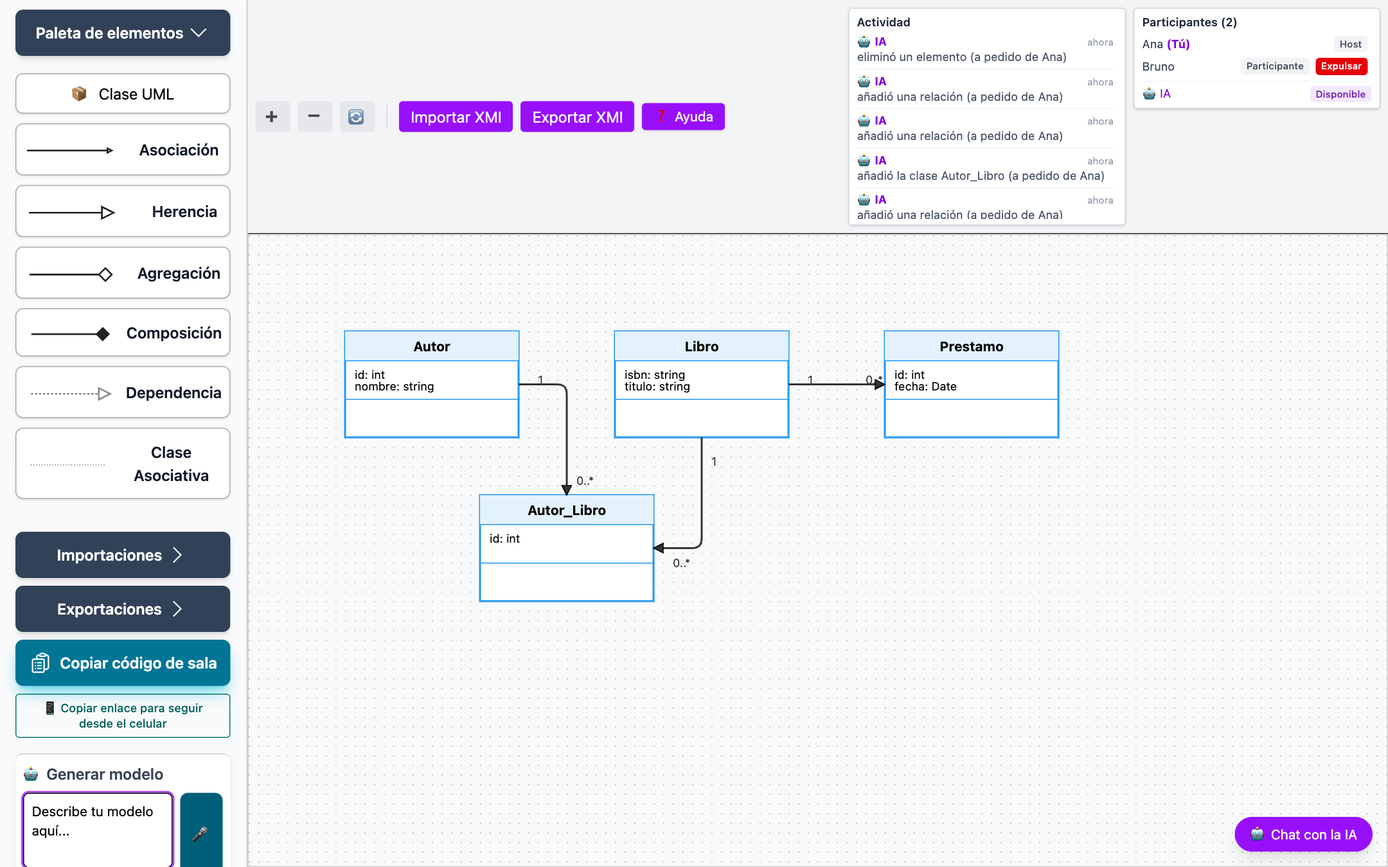
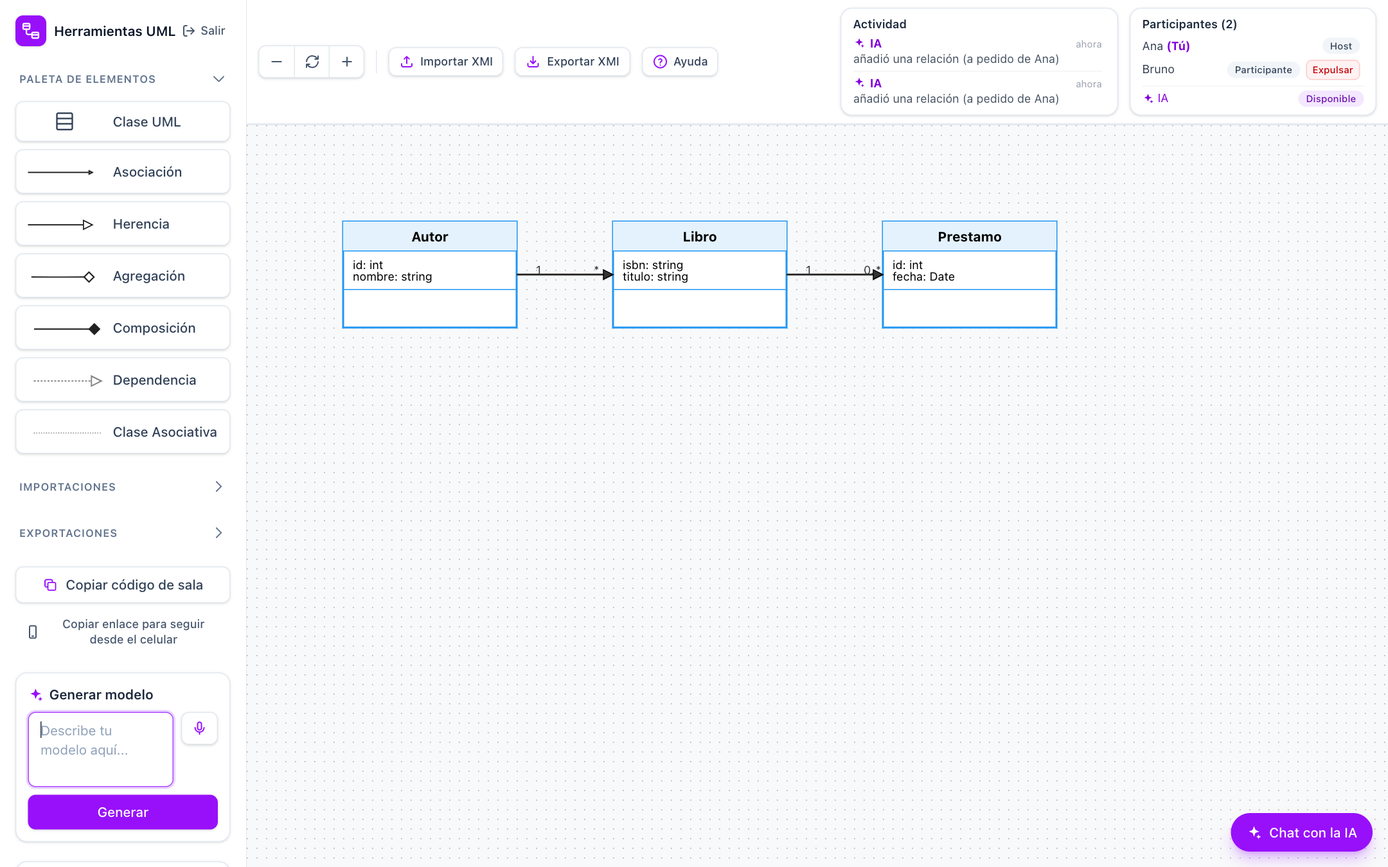
docs: record the third deploy of the night (new design and plain-Spanish messages), the phone-notification tests, the new screenshots and the real counts
- DESPLIEGUE / ENTREGA / GAP_MATRIX: server at 1d3a8d7 (pull requests 2 to 16), smoke 12/12, test counts (Django 392,
  Angular 312, generated Flutter project 111) and the notification findings: a real system notification on an Android
  emulator and in Chrome against the published site; Safari on iPhone does not offer web notifications; notifications
  only work with the page open.
- The help assistant's knowledge and the report model no longer mention the old emoji labels (now SVG icons) and carry
  the new counts and the notification result.
- The 11 manual screenshots were retaken against the deployed site with the new design.

diff --git a/informe/modelo/pruebas.py b/informe/modelo/pruebas.py
@@ -768,19 +768,19 @@ DEFECTOS = [
 
 # ---- resultados de la ejecución completa -------------------------------------------------------------------------------
 RESULTADOS = [
-    ("Django (API y colaboración)", "back_generador_bd/.venv/bin/python manage.py test", "391 pruebas: todas pasaron (19 de ellas, contra un MongoDB real, se saltan sin MONGO_TEST_URL)", "pasó"),
+    ("Django (API y colaboración)", "back_generador_bd/.venv/bin/python manage.py test", "392 pruebas: todas pasaron (19 de ellas, contra un MongoDB real, se saltan sin MONGO_TEST_URL)", "pasó"),
     ("Django, adaptadores de MongoDB contra un servidor real", "MONGO_TEST_URL=mongodb://127.0.0.1:27018 manage.py test collab.tests.test_mongo_integration", "19 pruebas: todas pasaron", "pasó"),
     ("Django, adaptadores de MongoDB contra MongoDB Atlas (8.0), desde el servidor de AWS", "MONGO_TEST_URL=$MONGO_URL manage.py test collab.tests.test_mongo_integration --settings=diagramador_uml.settings_test", "19 pruebas: todas pasaron el 2026-11-04", "pasó"),
     ("Angular (servicios, componentes y vistas)", "ng test --watch=false --browsers=ChromeHeadless", "312 pruebas: todas pasaron", "pasó"),
     ("Angular, compilación de producción", "ng build", "compiló sin errores (con las advertencias habituales de JointJS y file-saver)", "pasó"),
-    ("Aplicación móvil generada (Flutter)", "flutter test y flutter analyze, en un proyecto generado de ejemplo", "106 pruebas: todas pasaron, incluido el asistente con IA local (conversación, órdenes con protecciones, descarga y actualización del modelo); el analizador no dio errores ni advertencias", "pasó"),
+    ("Aplicación móvil generada (Flutter)", "flutter test y flutter analyze, en un proyecto generado de ejemplo", "111 pruebas: todas pasaron, incluido el asistente con IA local (conversación, órdenes con protecciones, descarga y actualización del modelo); el analizador no dio errores ni advertencias", "pasó"),
     ("Asistente móvil con el modelo real (Qwen2.5-1.5B, en un Mac)", "15 frases por las reglas y por el modelo (docs/FLUTTER_ASSISTANT_SETUP.md)", "consultar, crear, cambiar por id y borrar por número dieron el comando correcto; la conversación usó los datos reales y reconoció lo que no puede hacer (buscar en internet, enviar correos)", "pasó"),
     ("Spring Boot (generador de backend)", "back_generator_uml/mvnw test", "12 pruebas: todas pasaron, incluida la compilación real de los proyectos generados (también con relaciones recursivas y repetidas) y la colección de Postman", "pasó"),
 ]
 PENDIENTES = [
     "Probar la exportación XMI con Enterprise Architect 17.2 después de los cambios del segundo parcial (la prueba del primer parcial no se repitió).",
     "Ejecutar sin red la aplicación Flutter generada en un dispositivo (prueba del primer parcial); en el simulador de iPhone se probó sin red el 2026-11-07 (crear registros, incluida una relación recursiva, y comprobarlos en la base local).",
-    "Ver una notificación real en un celular (el navegador de las pruebas tiene los avisos bloqueados).",
+    "Ver una notificación en un teléfono físico: el 2026-11-07 se vio una notificación real del sistema en un emulador de Android (Chrome) y en Chrome contra el sitio publicado; Safari en iPhone no ofrece avisos web y los avisos solo funcionan con la página abierta.",
     "Medir la velocidad y la calidad de la conversación de la IA local (Qwen2.5-1.5B) en un iPhone físico: se probó con el modelo real en un Mac y la descarga dentro de la app en un iPhone 17 Pro Max.",
     "Repetir la prueba de colaboración con tres personas en navegadores distintos sobre el servidor de AWS, que ya usa MongoDB Atlas (la prueba de punta a punta del 2026-11-04 la hizo una persona simulada dentro del servidor).",
 ]

diff --git a/docs/ENTREGA.md b/docs/ENTREGA.md
@@ -5,9 +5,9 @@
 | **Proyecto** | Diagramador UML colaborativo con IA como integrante de la sala (Ingeniería de Software I, grupo 29) |
 | **Versión** | `v1.0` es el primer parcial (etiqueta en `develop`). El segundo parcial entró a `develop` con el pull request 2 (commit de fusión `ac1efb6`), todavía sin etiqueta |
 | **Repositorio** | https://github.com/Gris999/Diagramador_UML_Examen2 (la rama por defecto es `develop`: es la que abre el código QR de GitHub de la carátula) |
-| **Sitio desplegado** | https://diagramador.dev (AWS EC2, HTTPS). Desplegado el 2026-11-04 con el segundo parcial (chat compartido, avisos, asistente de ayuda) y actualizado el 2026-11-07 con la clase asociativa UML y las relaciones recursivas, más tarde ese día con el arreglo del proyecto Flutter con IA local, y esa noche con la app móvil pulida (asistente en español natural, pantalla principal genérica con el nombre y el icono de la app, descarga de la IA local dentro de la app) y el botón «Descargar proyecto completo» y, esa noche, con el asistente que responde con la verdad sobre su IA y con el asistente que conversa con una IA local de 1,5B usando los datos reales de la app (`develop` = `556204b`). La actividad y la conversación con la IA se guardan en MongoDB Atlas (nube, plan gratuito) desde ese día |
+| **Sitio desplegado** | https://diagramador.dev (AWS EC2, HTTPS). Desplegado el 2026-11-04 con el segundo parcial (chat compartido, avisos, asistente de ayuda) y actualizado el 2026-11-07 con la clase asociativa UML y las relaciones recursivas, más tarde ese día con el arreglo del proyecto Flutter con IA local, y esa noche con la app móvil pulida (asistente en español natural, pantalla principal genérica con el nombre y el icono de la app, descarga de la IA local dentro de la app) y el botón «Descargar proyecto completo» y, esa noche, con el asistente que responde con la verdad sobre su IA y con el asistente que conversa con una IA local de 1,5B usando los datos reales de la app y, la misma noche, con el rediseño de la interfaz (una sola paleta, íconos SVG y componentes compartidos; `docs/DISENO_UI.md`) y los mensajes en español claro del asistente móvil (`develop` = `1d3a8d7`). La actividad y la conversación con la IA se guardan en MongoDB Atlas (nube, plan gratuito) desde ese día |
 | **Fecha de entrega** | Martes **2026-11-10, a más tardar a las 8 a.m.**, en la plataforma (de *DOCUMENTACION DEL 2DO PARCIAL.docx*). La fecha de una presentación oral, si la hay, no está confirmada |
-| **Estado al 2026-11-07** | Pull requests 2 a 13 fusionados en `develop` (`556204b`); desplegado en AWS con la prueba de humo en orden; informe de 328 páginas generado; pruebas físicas pendientes (sección 5) |
+| **Estado al 2026-11-07** | Pull requests 2 a 16 fusionados en `develop` (`1d3a8d7`); desplegado en AWS con la prueba de humo en orden; informe de 328 páginas generado; pruebas físicas pendientes (sección 5) |
 
 ## 1. Qué se entrega
 
@@ -36,7 +36,7 @@ Todos los requisitos de `REQUIREMENTS.md` figuran como **hechos** salvo los que 
 | XMI con Enterprise Architect (en ambos sentidos, con pruebas de seguridad) | Hecho en el primer parcial; **por repetir** tras los cambios del segundo |
 | Generación Spring Boot + PostgreSQL, colección Postman, proyecto Flutter con SQLite sin conexión | Hecho; el Flutter sin red en un dispositivo está **por repetir** |
 | IA como integrante de la sala: identidad, actividad, chat (**una sola conversación para toda la sala** desde el segundo parcial), cambios a pedido, revisión con ideas aplicables, sesiones continuas, vista móvil | Hecho (RF-23 a RF-32) |
-| Avisos en la vista del celular (RF-34), asistente de ayuda (RF-35) y MongoDB para la actividad y la conversación (RNF-08) | Hecho y desplegado, con MongoDB Atlas activo desde el 2026-11-04; el aviso en un celular real está sin probar |
+| Avisos en la vista del celular (RF-34), asistente de ayuda (RF-35) y MongoDB para la actividad y la conversación (RNF-08) | Hecho y desplegado, con MongoDB Atlas activo desde el 2026-11-04; el 2026-11-07 se vio una notificación real del sistema en un emulador de Android (Chrome, Android 16) y en Chrome contra el sitio publicado; Safari en iPhone no ofrece avisos web (la vista se actualiza en vivo, pero sin avisos), y los avisos funcionan solo con la página abierta; en un teléfono físico está sin probar |
 | IA local (Ollama + Qwen 3.5 9B) y modelo de 4 mil millones de parámetros reentrenado | Hecho: 10/10 pedidos correctos (RF-33); el reentrenado, en los anexos del informe |
 | Despliegue en AWS con dominio y HTTPS | Parcial: manual y repetible; sin infraestructura como código ni CI/CD |
 | IA local **dentro de la app móvil generada** | Parcial: la app descarga el modelo `.gguf` (Qwen2.5-1.5B, unos 1,1 GB) una sola vez por una acción explícita (botón «Descargar IA local», con confirmación y progreso; «Descargar IA mejorada» para quien tiene el modelo pequeño anterior) o lo importa con «Elegir modelo», y lo usa sin internet. Con el modelo listo **conversa** sobre sistemas de gestión usando el esquema y los datos reales de la app, y sus órdenes (crear, consultar, cambiar, eliminar) las interpreta el modelo con protecciones; cada respuesta lleva la etiqueta «IA local» o «Respuesta de la app». Comprobado el 2026-11-07 con el modelo real en macOS (tabla de resultados en `docs/FLUTTER_ASSISTANT_SETUP.md`) y la descarga dentro de la app en un iPhone 17 Pro Max; falta medir la conversación del 1,5B en el iPhone. Es un modelo pequeño: puede explicar conceptos de forma imprecisa. Sin modelo, o si la IA falla, usa textos fijos y el intérprete determinista |
@@ -47,9 +47,9 @@ Todos los requisitos de `REQUIREMENTS.md` figuran como **hechos** salvo los que 
 | Suite | Resultado |
 |---|---|
 | Frontend (Karma) | 312 correctas, 0 fallos; `ng build` sin errores |
-| Django (`manage.py test` con `settings_test`, sin Docker) | 391 pruebas, todas pasan; 19 de ellas se omiten sin un MongoDB real (`MONGO_TEST_URL`) y pasaron con él el 2026-10-26 |
+| Django (`manage.py test` con `settings_test`, sin Docker) | 392 pruebas, todas pasan; 19 de ellas se omiten sin un MongoDB real (`MONGO_TEST_URL`) y pasaron con él el 2026-10-26 |
 | Spring (incluye compilar de verdad el proyecto generado) | 12 correctas, 0 fallos |
-| Proyecto Flutter generado (`flutter test` y `flutter analyze` en un proyecto de ejemplo) | 106 correctas, 0 fallos; el analizador no da errores ni advertencias (2026-11-07) |
+| Proyecto Flutter generado (`flutter test` y `flutter analyze` en un proyecto de ejemplo) | 111 correctas, 0 fallos; el analizador no da errores ni advertencias (2026-11-07) |
 | Asistente móvil con el modelo real (Qwen2.5-1.5B, en un Mac) | 15 frases por las reglas y por el modelo: consultar, crear, cambiar por id y borrar por número dan el comando correcto; la charla usa los datos reales y reconoce sus límites. Tabla en `docs/FLUTTER_ASSISTANT_SETUP.md` (2026-11-07) |
 | Sitio desplegado | `scripts/smoke-test.sh` el 2026-11-07 (tras cada despliegue del día, el último con el servidor en `556204b`): 12 comprobaciones, todo en orden (el 2026-11-04 también, antes y después de activar MongoDB Atlas). La ayuda respondió una pregunta real y rechazó una fuera de tema; `/api/chatbot/` (eliminado) da 404 |
 | MongoDB Atlas | Las 19 pruebas de los adaptadores contra Atlas (MongoDB 8.0), desde el servidor: pasan. Se copiaron 34 eventos y 10 mensajes con `migrar_a_mongo` (iguales a los de PostgreSQL salvo la hora a milisegundos y el nombre de autor de los mensajes viejos). Prueba de punta a punta: una edición por WebSocket y una pregunta a la IA se guardaron y se leyeron de Atlas, y PostgreSQL no creció |
@@ -78,7 +78,7 @@ Comandos exactos: [`puds/05-pruebas.md`](puds/05-pruebas.md) §3.
 - [x] **Pull request 2 fusionado a `develop`** el 2026-11-04 (`ac1efb6`): el código QR de GitHub de la carátula ya muestra el segundo parcial.
 - [x] **Desplegado en AWS** el 2026-11-04: migración `collab/0005_chatmessage_author_name` aplicada, memoria medida y `scripts/smoke-test.sh` en orden (`DESPLIEGUE.md` §4).
 - [x] **MongoDB Atlas activado en el servidor** el 2026-11-04 (`DESPLIEGUE.md` §8).
-- [ ] **Pruebas físicas:** exportar e importar XMI con Enterprise Architect, generar el Flutter y usarlo sin red en un dispositivo, recibir una notificación en un celular real y trabajar con tres navegadores sobre el sitio desplegado.
+- [ ] **Pruebas físicas:** exportar e importar XMI con Enterprise Architect, generar el Flutter y usarlo sin red en un dispositivo, recibir una notificación en un celular físico Android (en un emulador y en Chrome ya se vio) y trabajar con tres personas reales en tres navegadores sobre el sitio desplegado.
 - [ ] **Revisar el PDF página por página** e imprimir las dos carátulas.
 - [ ] **Confirmar con el docente** si hay presentación oral y qué día.
 - [ ] **Ensayar la demostración** con las personas reales (`DEMO.md`), cada una en su propio navegador o perfil.

diff --git a/docs/GAP_MATRIX.md b/docs/GAP_MATRIX.md
@@ -48,7 +48,7 @@ Status values:
 | Document database for activity and conversation (RNF-08) | DONE (C3, 2026-10-26); deployed 2026-11-04 and, since that day, production stores activity and conversation in MongoDB Atlas (free tier, AWS N. Virginia) | Ports `ActivityStore`/`ConversationStore` with PostgreSQL and MongoDB adapters chosen by `ACTIVITY_STORE`/`CONVERSATION_STORE`; integer ids from a `counters` collection, optimistic `v` field for `update_data`; `migrar_a_mongo`; `mongo` service in `docker-compose.db.yml` (cache 0.25 GB, `--auth`, only behind the `mongo` compose profile and receiving just its two `MONGO_INITDB_ROOT_*` variables by name, not the whole `.env`; `collab/tests/test_compose_mongo.py`). Contract tests run on PostgreSQL, on `mongomock` and on a real MongoDB 7 (`MONGO_TEST_URL`, 19 tests green on 2026-10-26). **Production uses MongoDB Atlas, not a container: the 2 GB AWS machine had about 1,100-1,200 MB available and 540-690 MB of swap in use on 2026-11-04, so a local MongoDB was not started. The 19 real-MongoDB tests also pass against Atlas (MongoDB 8.0), `migrar_a_mongo` copied 34 events and 10 messages, and an end-to-end check stored and read an edit and an AI chat exchange from Atlas while PostgreSQL did not grow. Atlas only accepts the server's IP (`docs/DESPLIEGUE.md` section 8)** |
 | Configurable AI provider / local model (RF-33) | DONE | `AI_PROVIDER=gemini|ollama`; `OllamaProvider` runs Qwen 3.5 9B through Ollama with the same instructions as Gemini, and the chat shows which AI answers. Evaluated on 2026-10-22 with 10 fixed requests and strict checks (right class/attribute/type/endpoints, nothing lost, expected deletions; the checks themselves are tested): local 10/10 correct (avg 11.6 s) vs Gemini 10/10 (avg 19.2 s; timings vary a lot between runs) — `docs/IA_LOCAL.md`, `scripts/evaluar_ia.py`. The AWS instance (~2 GB RAM) cannot run it; the demo uses it on a laptop. A Qwen3-4B model was **retrained by the team** (LoRA with MLX, 1500 generated examples, 1000 iterations): 35 % -> 77 % -> 82 % exact answers on 200 unseen examples over two training runs (82 % once deployed in Ollama); `OLLAMA_CHANGE_MODEL` makes the chat use it for diagram changes — `docs/REENTRENAMIENTO_IA.md`, `ml/` |
 | AWS deployment | PARTIAL | Desplegado en AWS EC2 con Docker Compose, nginx y HTTPS (Let's Encrypt) en https://diagramador.dev; procedimiento manual y repetible en `docs/DESPLIEGUE.md`. Actualizado el 2026-11-04 con el segundo parcial (`scripts/smoke-test.sh`: todo en orden). Faltan infraestructura como código y CI/CD |
-| Automated tests | PARTIAL | On 2026-11-07 (re-run): frontend 302 specs, Django 365 tests (19 of them need a real MongoDB through `MONGO_TEST_URL`; skipped without it, green on 2026-10-26) and Spring (`mvnw test`, 12 tests, with the real compilation of the generated projects) green. F5 (2026-10-27): every path of the 14 use cases (66) has a test case and at least one automated test (`informe/modelo/pruebas.py`, checked against the repository), and 21 manual procedures were executed in the browser with real Gemini; F5 found and fixed 7 defects (landing code validation, dangling relationships, phantom delete event, silent generator errors, re-entering after an expulsion, CORS header of the help assistant, two fiche mismatches). Not yet tested: Enterprise Architect after the second-parcial changes, the Flutter app offline on a device, a real phone notification, three browsers/AWS. Earlier, on 2026-10-22: frontend 201 specs and Django 121 DB-free + 145 with SQLite tests; Spring covered by `ProjectGeneratorCompileTest`; the retraining has its own offline checks of the evaluation and of the provider adapter. Coverage of the newest code paths is partial |
+| Automated tests | PARTIAL | On 2026-11-07 (re-run): frontend 312 specs, Django 392 tests (19 of them need a real MongoDB through `MONGO_TEST_URL`; skipped without it, green on 2026-10-26) and Spring (`mvnw test`, 12 tests, with the real compilation of the generated projects) green. F5 (2026-10-27): every path of the 14 use cases (66) has a test case and at least one automated test (`informe/modelo/pruebas.py`, checked against the repository), and 21 manual procedures were executed in the browser with real Gemini; F5 found and fixed 7 defects (landing code validation, dangling relationships, phantom delete event, silent generator errors, re-entering after an expulsion, CORS header of the help assistant, two fiche mismatches). Not yet tested: Enterprise Architect after the second-parcial changes, the Flutter app offline on a device, a notification on a physical phone (on 2026-11-07 a real system notification was seen on an Android emulator and in Chrome against production; Safari on iPhone does not offer web notifications), three real people on three browsers against AWS. Earlier, on 2026-10-22: frontend 201 specs and Django 121 DB-free + 145 with SQLite tests; Spring covered by `ProjectGeneratorCompileTest`; the retraining has its own offline checks of the evaluation and of the provider adapter. Coverage of the newest code paths is partial |
 | PUDS/process documentation | DONE; final read-through pending | The second-parcial report (`informe/`, 319 pages) registers the process by PUDS discipline: requirements (14 use cases), analysis, design, implementation, tests (66 cases, one per use-case path) and validation, verification and audit (traceability matrix). It is generated from models that are checked against the repository, so a mismatch stops the build. Also `docs/puds/` and `docs/PLAN_SEGUNDO_PARCIAL.md`. Pending: Pedro's page-by-page review and the instructor's confirmation of the format |
 | Secrets/configuration hygiene | PARTIAL | Secretos en `.env` fuera de git, `DEBUG` apagado en producción y contraseña de Postgres retirada de `back_generador_bd/docker-compose.yml`. La contraseña que estuvo escrita en el historial de git (público) se **rotó el 2026-10-22 en el servidor y en la base local** (la antigua es rechazada); el historial no se reescribe, pero esa clave ya no sirve. Escaneo de secretos del árbol y de los 131 commits sin hallazgos (claves de Google/AWS/GitHub, llaves privadas, JWT, URLs con credenciales) |
 | Reproducible local startup | DONE | Baseline stack verified locally |

diff --git a/back_generador_bd/uml_api/knowledge/AYUDA.md b/back_generador_bd/uml_api/knowledge/AYUDA.md
@@ -12,7 +12,7 @@ Herramienta web para modelar diagramas de clases UML en equipo (de 2 a 3 persona
 
 ## 2. Participantes y roles
 
-- El panel «Participantes» muestra quién está conectado. Tú apareces con «(Tú)». La IA aparece como «🤖 IA» y dice si está disponible o pensando.
+- El panel «Participantes» muestra quién está conectado. Tú apareces con «(Tú)». La IA aparece como «IA» (con un ícono de destellos) y dice si está disponible o pensando.
 - La primera persona que entra a la sala es el «Host»; las demás son «Participante». Todos pueden editar el diagrama por igual.
 - Solo el Host ve el botón «Expulsar» junto a los demás. La persona expulsada ve un aviso y vuelve al inicio.
 - Si el Host sale, el rol pasa a la persona que lleva más tiempo conectada. Al volver a entrar, entras como participante.
@@ -30,14 +30,14 @@ Herramienta web para modelar diagramas de clases UML en equipo (de 2 a 3 persona
 
 ## 4. Crear o cambiar el diagrama con texto, voz o imagen
 
-- «🤖 Generar modelo»: escribe en «Describe tu modelo aquí...» lo que quieres (por ejemplo «Agrega una clase Factura con total y fecha») y pulsa «Generar». La IA agrega lo pedido sin duplicar ni mover lo que ya existe, y todos lo ven.
+- «Generar modelo»: escribe en «Describe tu modelo aquí...» lo que quieres (por ejemplo «Agrega una clase Factura con total y fecha») y pulsa «Generar». La IA agrega lo pedido sin duplicar ni mover lo que ya existe, y todos lo ven.
 - Voz: pulsa el micrófono, di la instrucción y vuelve a pulsarlo (⏹) para terminar. La voz se convierte en texto y esa instrucción se aplica igual que si la hubieras escrito en «Generar modelo». El micrófono funciona solo en Chrome con conexión segura (HTTPS).
 - Imagen: en «Importaciones» → «Importar Imagen» elige la foto o captura de un diagrama de clases. Si el diagrama de la sala ya tiene elementos, la herramienta pregunta qué hacer con el resultado: «Reemplazar diagrama», «Combinar con actual» o «Cancelar».
 - Si un cambio de la IA va a eliminar elementos, la herramienta te pide confirmación antes de aplicarlo.
 
 ## 5. Chat con la IA (la conversación es de toda la sala)
 
-- Pulsa «🤖 Chat con la IA» (abajo a la derecha). La conversación la ven y la alimentan todas las personas de la sala; cada mensaje muestra quién lo escribió.
+- Pulsa «Chat con la IA» (abajo a la derecha). La conversación la ven y la alimentan todas las personas de la sala; cada mensaje muestra quién lo escribió.
 - La IA atiende un pedido a la vez. Si está ocupada con otra persona, te avisa y esperas a que termine.
 - Hay tres modos:
   - «Preguntar»: la IA solo responde, por ejemplo «¿Qué hizo Beto?» o «Explícame este diagrama». No toca el diagrama.
@@ -55,7 +55,7 @@ Herramienta web para modelar diagramas de clases UML en equipo (de 2 a 3 persona
 
 ## 7. Validar el modelo
 
-- «🔍 Sugerencias del modelo» abre el panel de validación. Pulsa «Analizar modelo» y verás las relaciones válidas (✅) y los errores (❌) con sugerencias.
+- «Sugerencias del modelo» abre el panel de validación. Pulsa «Analizar modelo» y verás las relaciones válidas (con una marca verde) y los errores (con una marca roja) con sugerencias.
 
 ## 8. Importar y exportar
 
@@ -70,13 +70,13 @@ Herramienta web para modelar diagramas de clases UML en equipo (de 2 a 3 persona
 
 ## 9. Seguir la sala desde el celular
 
-- Pulsa «📱 Copiar enlace para seguir desde el celular» y abre ese enlace en el celular (tiene la forma /sala/CÓDIGO/seguir).
+- Pulsa «Copiar enlace para seguir desde el celular» y abre ese enlace en el celular (tiene la forma /sala/CÓDIGO/seguir).
 - Es una vista de solo lectura: muestra el diagrama actualizándose en vivo y la actividad debajo. No tiene controles de edición y no cuenta como participante.
 - Pulsa «🔔 Activar avisos» para recibir una notificación del navegador cuando alguien cambie el diagrama o la IA publique una idea. Los avisos solo llegan mientras la página está abierta. Si el navegador los bloqueó, hay que permitirlos en sus ajustes.
 
 ## 10. Ayuda
 
-- El botón «❓ Ayuda» (en la página principal y dentro de la sala) abre este asistente. Pregúntale cómo hacer algo en la herramienta; solo responde sobre el uso de la herramienta.
+- El botón «Ayuda» (con un signo de interrogación, en la página principal y dentro de la sala) abre este asistente. Pregúntale cómo hacer algo en la herramienta; solo responde sobre el uso de la herramienta.
 - Tu conversación con la ayuda es personal: no la ve nadie más y se queda en tu navegador.
 
 ## 11. Problemas frecuentes

diff --git a/docs/DESPLIEGUE.md b/docs/DESPLIEGUE.md
@@ -72,6 +72,10 @@ Esa misma noche (20:44) se fusionó el pull request 10 (app móvil pulida: asist
 
 Esa misma noche hubo dos despliegues más, ambos solo de código Python montado en el contenedor de Django, sin usuarios conectados (0 grupos `asgi:group:*` en Redis y 0 conexiones al puerto 8000) y con `git pull --ff-only origin develop` seguido de `docker-compose -f docker-compose.app.yml restart django`. El primero (pull requests 11 y 12: el asistente móvil responde con la verdad sobre su IA) llevó el servidor a `b2447bd`; el commit anterior (`9d4115b`) quedó en `~/deploy-prev-20261107c.txt`. El segundo (pull request 13: el asistente móvil conversa con una IA local de 1,5B con los datos reales de la app, órdenes con protecciones y modelo por defecto Qwen2.5-1.5B) llevó el servidor a `556204b`; el anterior (`b2447bd`) quedó en `~/deploy-prev-20261107d.txt`. Después de cada uno: `scripts/smoke-test.sh` 12 de 12 y un proyecto Flutter generado en el sitio con `POST /api/generar_flutter/` y `POST /api/generar_todo/` (200 con ZIP; el segundo con `local_llm_chat.dart`, el modelo por defecto `qwen2.5-1.5b-instruct-q4_k_m.gguf` y el nombre de la app en `AppSchema.appName`).
 
+Y al final de esa noche, un tercer despliegue (pull requests 15 y 16: rediseño de la interfaz del diagramador con una sola paleta, íconos SVG y componentes compartidos, y mensajes en español claro del asistente móvil con el plural en «-es» y los nombres compuestos) llevó el servidor a `1d3a8d7`. Esta vez cambió el frontend, así que se reconstruyó `angular-app` (unos 3 minutos) y se levantó con `up -d --no-deps`, y `django` se reinició; `spring-backend` no cambió. Antes se comprobó que no hubiera usuarios (0 grupos `asgi:group:*` y 0 conexiones al puerto 8000; la primera comprobación vio 1 conexión y era el simulador de iPhone de las pruebas, que se cerró), se etiquetó la imagen anterior como `antes-20261107e` y el commit previo (`da20016`) quedó en `~/deploy-prev-20261107e.txt`. Después: ``scripts/smoke-test.sh` 12 de 12`, el título de la página en producción es «Diagramador UML» (antes «FrontGeneradorBd»), la portada se ve con el diseño nuevo y el generador de Flutter de producción trae los mensajes humanos, `_pluralWord` y `_singularForms`; `POST /api/generar_todo/` responde 200.
+
+Ese mismo día se probaron los avisos del celular contra el sitio publicado, con una sala de prueba y una persona simulada que añadía clases: en Chrome (con los avisos permitidos y espiados) el aviso se disparó 3 de 3 veces («Ana: añadió la clase Entidad»); en un emulador de Android 16 apareció la franja «Activar avisos» y llegó una **notificación real del sistema** («Chrome · diagramador.dev: Ana, añadió la clase Entidad»); en el simulador de iPhone la vista se actualiza en vivo pero Safari no ofrece avisos web. Los avisos funcionan solo con la página abierta.
+
 ### Despliegue anterior (2026-11-04, segundo parcial)
 
 Se desplegó `develop` en `ac1efb6` (la fusión del pull request 2) sin usuarios conectados. Antes se respaldaron las imágenes `django` y `angular-app` como `antes-20261104-1559` y el commit anterior (`6710b82`) en `~/respaldos-despliegue/head-antes-20261104-1559.txt`. `spring-backend` no cambió y no se tocó. Se hizo `git pull --ff-only origin develop`, se construyeron `django` (ahora con `pymongo` y `mongomock`) y `angular-app` con `docker-compose -f docker-compose.app.yml build <servicio>` y se reiniciaron uno a la vez con `up -d --no-deps`. Al arrancar, Django aplicó la migración `collab.0005_chatmessage_author_name` (una columna y un índice). Resultado: `scripts/smoke-test.sh` en orden; la ayuda respondió una pregunta real y rechazó una fuera de tema; `/api/chatbot/` (eliminado) responde 404. Ese mismo día, después, se activó MongoDB Atlas (sección 8; además se trajo el arreglo del PR 4 y se recreó `django` dos veces más). Para volver atrás: volver a etiquetar como `latest` las dos imágenes `antes-20261104-1559` (`docker tag`, como en «Volver atrás») y, en el servidor, `git checkout 6710b82` (el código de Django se monta desde esa carpeta).
